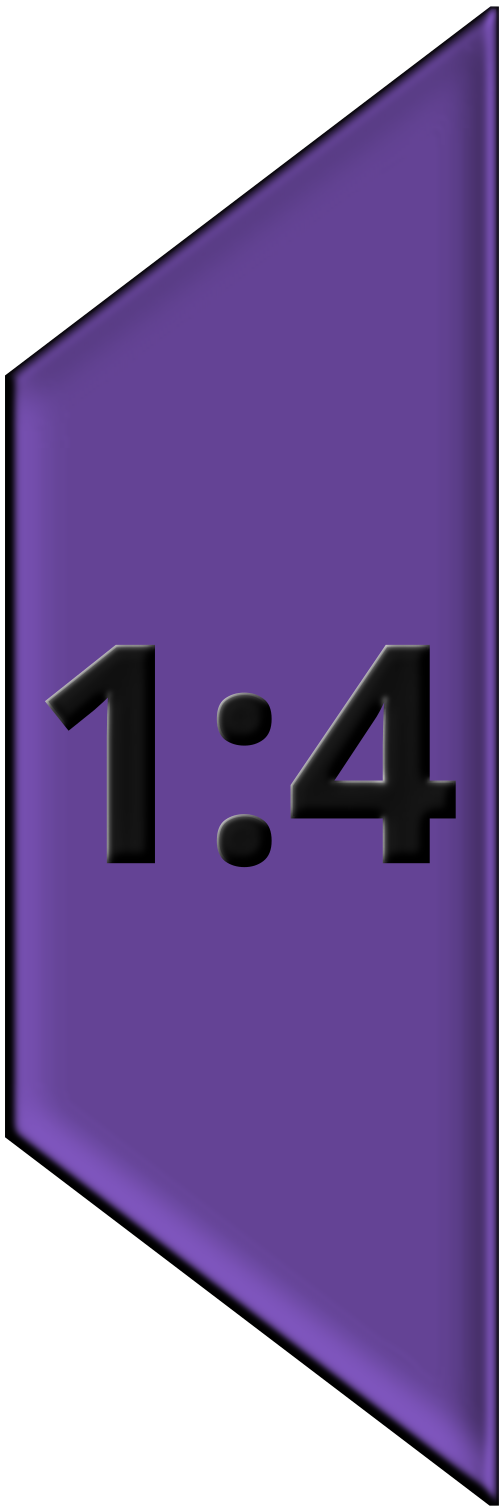
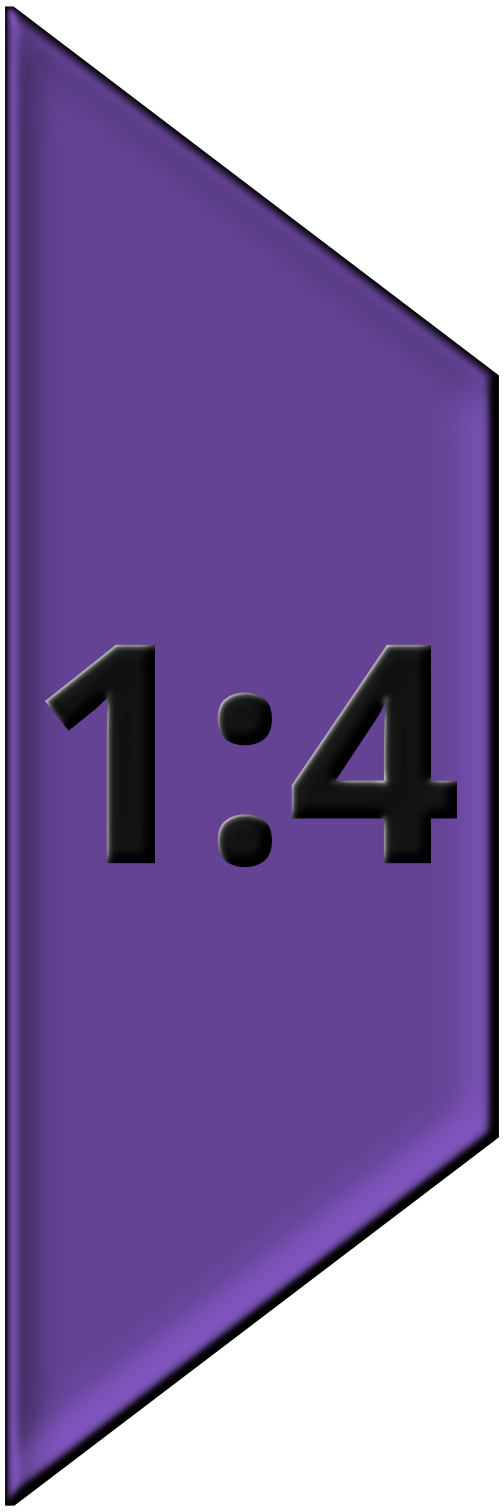
swap 1:4 and 4:1 as the names were backwards

diff --git a/src/model_4to1.cpp b/src/model_4to1.cpp
@@ -11,11 +11,11 @@ model_4to1::model_4to1(float _X, float _Y)  : element(_X, _Y, "")
     sizeX=2;
     sizeY=6;
     
-    add_port(-1, 1, "Bit0", PORT_IN, 1);
-    add_port(-1, 2, "Bit1", PORT_IN, 1);
-    add_port(-1, 3, "Bit2", PORT_IN, 1);
-    add_port(-1, 4, "Bit3", PORT_IN, 1);
-    add_port(sizeX, 3, "Bus", PORT_OUT, 4);
+    add_port(sizeX, 1, "Bit0", PORT_OUT);
+    add_port(sizeX, 2, "Bit1", PORT_OUT);
+    add_port(sizeX, 3, "Bit2", PORT_OUT);
+    add_port(sizeX, 4, "Bit3", PORT_OUT);
+    add_port(-1, 3, "Bus", PORT_IN, 4);
 }
 
 model_4to1::~model_4to1(void)
@@ -39,16 +39,32 @@ void model_4to1::drawAt(class canvas *canvas, float X, float Y, int type)
 
 void model_4to1::calculate(int ttl)
 {
-    value.valid = true;
-    value.type = VALUE_TYPE_INT;
-    value.intval = 0;
-    for (unsigned int i = 0; i < ports.size(); i++) {
-        if (ports[i]->value.boolval && ports[i]->direction == PORT_IN)
-            value.intval |= (1 << i);
+    struct value out = {};
+    
+    if (ttl <= 1) {
+        printf("4to1 ttl exceeded\n");
+        return;
     }
+    out.valid = true;
+    out.type = VALUE_TYPE_BOOL;
     for (unsigned int i = 0; i < ports.size(); i++) {
-        if (ports[i]->direction == PORT_OUT)
-            ports[i]->update_value(&value, ttl - 1);
+        if (ports[i]->direction == PORT_IN)
+            value = ports[i]->value;
+    }
+    printf("Value is %li \n", value.intval);
+    for (unsigned int i = 0; i < ports.size(); i++) {
+        
+        out.valid = true;
+        out.type = VALUE_TYPE_BOOL;
+        out.boolval = false;
+        if ((value.intval & (1<<i)) && ports[i]->direction == PORT_OUT) {
+            out.boolval = true;
+	    printf(".... true for %i \n", i);
+	}
+        if (ports[i]->direction == PORT_OUT) {
+            printf("Port %i out %i at ttl %i\n", i, out.boolval, ttl);
+            ports[i]->update_value(&out, ttl - 1);
+        }
     }
     
 }

diff --git a/src/model_1to4.cpp b/src/model_1to4.cpp
@@ -11,11 +11,11 @@ model_1to4::model_1to4(float _X, float _Y)  : element(_X, _Y, "")
     sizeX=2;
     sizeY=6;
     
-    add_port(sizeX, 1, "Bit0", PORT_OUT);
-    add_port(sizeX, 2, "Bit1", PORT_OUT);
-    add_port(sizeX, 3, "Bit2", PORT_OUT);
-    add_port(sizeX, 4, "Bit3", PORT_OUT);
-    add_port(-1, 3, "Bus", PORT_IN, 4);
+    add_port(-1, 1, "Bit0", PORT_IN, 1);
+    add_port(-1, 2, "Bit1", PORT_IN, 1);
+    add_port(-1, 3, "Bit2", PORT_IN, 1);
+    add_port(-1, 4, "Bit3", PORT_IN, 1);
+    add_port(sizeX, 3, "Bus", PORT_OUT, 4);
 }
 
 model_1to4::~model_1to4(void)
@@ -39,32 +39,16 @@ void model_1to4::drawAt(class canvas *canvas, float X, float Y, int type)
 
 void model_1to4::calculate(int ttl)
 {
-    struct value out = {};
-    
-    if (ttl <= 1) {
-        printf("1to4 ttl exceeded\n");
-        return;
-    }
-    out.valid = true;
-    out.type = VALUE_TYPE_BOOL;
+    value.valid = true;
+    value.type = VALUE_TYPE_INT;
+    value.intval = 0;
     for (unsigned int i = 0; i < ports.size(); i++) {
-        if (ports[i]->direction == PORT_IN)
-            value = ports[i]->value;
+        if (ports[i]->value.boolval && ports[i]->direction == PORT_IN)
+            value.intval |= (1 << i);
     }
-    printf("Value is %li \n", value.intval);
     for (unsigned int i = 0; i < ports.size(); i++) {
-        
-        out.valid = true;
-        out.type = VALUE_TYPE_BOOL;
-        out.boolval = false;
-        if ((value.intval & (1<<i)) && ports[i]->direction == PORT_OUT) {
-            out.boolval = true;
-	    printf(".... true for %i \n", i);
-	}
-        if (ports[i]->direction == PORT_OUT) {
-            printf("Port %i out %i at ttl %i\n", i, out.boolval, ttl);
-            ports[i]->update_value(&out, ttl - 1);
-        }
+        if (ports[i]->direction == PORT_OUT)
+            ports[i]->update_value(&value, ttl - 1);
     }
     
 }

diff --git a/src/wire.cpp b/src/wire.cpp
@@ -346,7 +346,6 @@ void wire::from_json(json &j)
     if (j.contains("points")) {
         points =  new std::vector<struct waypoint>;
         *points = j["points"];
-        printf("Points size is %i \n", points->size());
     }
 }
 
